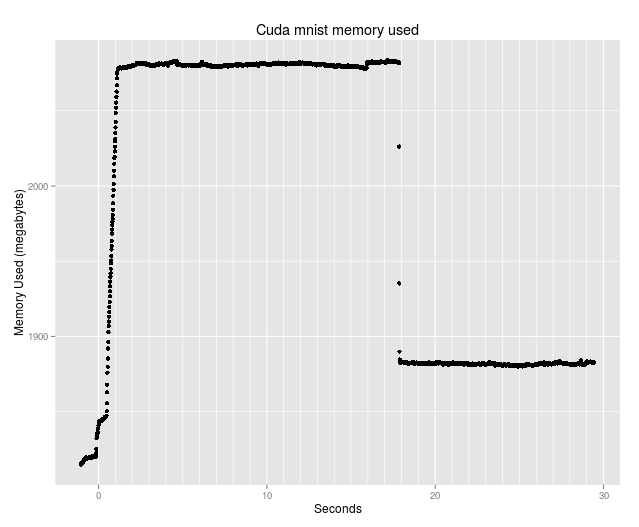
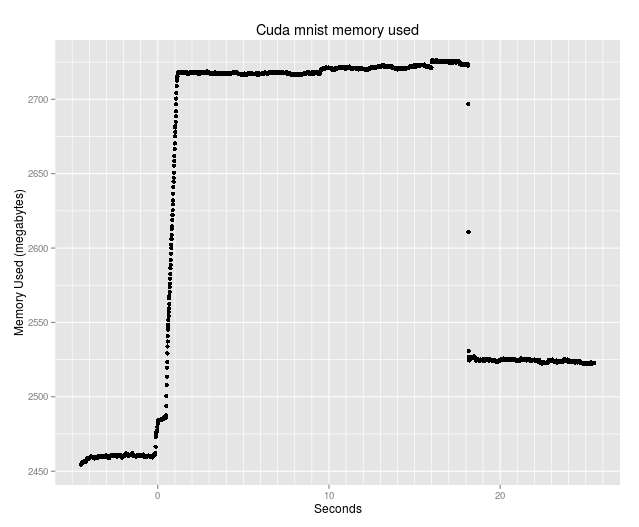
Changed

diff --git a/chart_100_per_second.md b/chart_100_per_second.md
@@ -21,9 +21,9 @@ get_memory_usage.php is the free stats collection program. You can do a prelimin
 php test/get_memory_usage.php _number_of_seconds_
 ```
 
-At least one second after starting get_memory_usage.php, start the Caffe mnist run.
+At least one second after starting get_memory_usage.php, start the Caffe mnist run. Run these programs in separate terminal windows.
 ```
-build/tools/caffe train --solver=test/lenet_solver.prototxt >> test/run.log 2>&1
+build/tools/caffe train --solver=test/lenet_solver.prototxt > test/run.log 2>&1
 ```
 The next program collects observation times and memory used stats from the test/get_memory_usage.log and writes those to a csv file test/mem_used.csv. In order to match the times between the memory usage log file and the Caffe log file, the program assumes that the change time on the Caffe log file is the date for the times collected in that file. This would not be true if the Caffe run spanned midnight.
 ```
@@ -36,8 +36,23 @@ library(ggplot2)
 qplot(mem_used_log$seconds, mem_used_log$mem_used, main = "Cuda mnist memory used", xlab='Seconds', ylab='Memory Used (megabytes)') +
   theme(panel.grid.major = element_line(colour="white", size=0.5)) +
   theme(panel.grid.minor = element_line(colour="white", size=0.3)) +
-  scale_x_continuous(minor_breaks = seq(0 , 50, 1), breaks = seq(0, 50, 10))
+  scale_x_continuous(minor_breaks = seq(-5 , 50, 1), breaks = seq(0, 50, 10)
 ```
 Here is my chart  
 Format: ![memory usage graph](usage_100.png)
+
+We can look at test/mem_used.csv to get an idea of the amount of memory leak for this Caffe mnist run. It looks like the Caffe run starts before the zero mark and we can get a memory used figure close to one second back as follows.
+```
+grep '\-0' test/mem_used.csv | head
+```
+Get the second number, the one after the comma. This is the system memory used close to one second before the first line with time on it in the Caffe run log (test/run.log). The shelf is flat at this point.
+
+Get the ending memory usage number as follows.
+```
+tail test/mem_used.csv
+```
+The second number, as above, on the last line is the end of the shelf to the right in the picture. That difference here is
+```
+2522.5896148682-2460.8234863281 = 61.766 megabytes approximately.
+```
 
